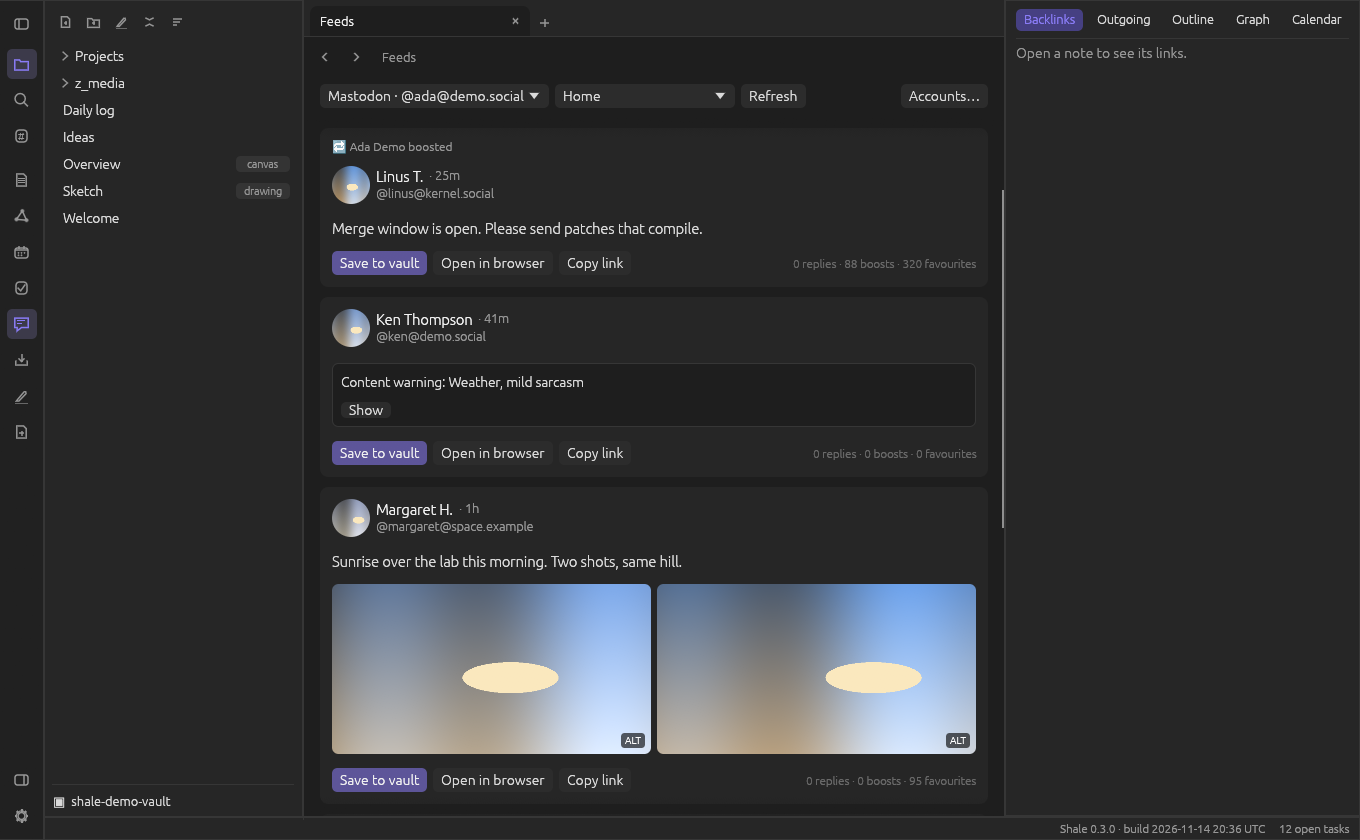
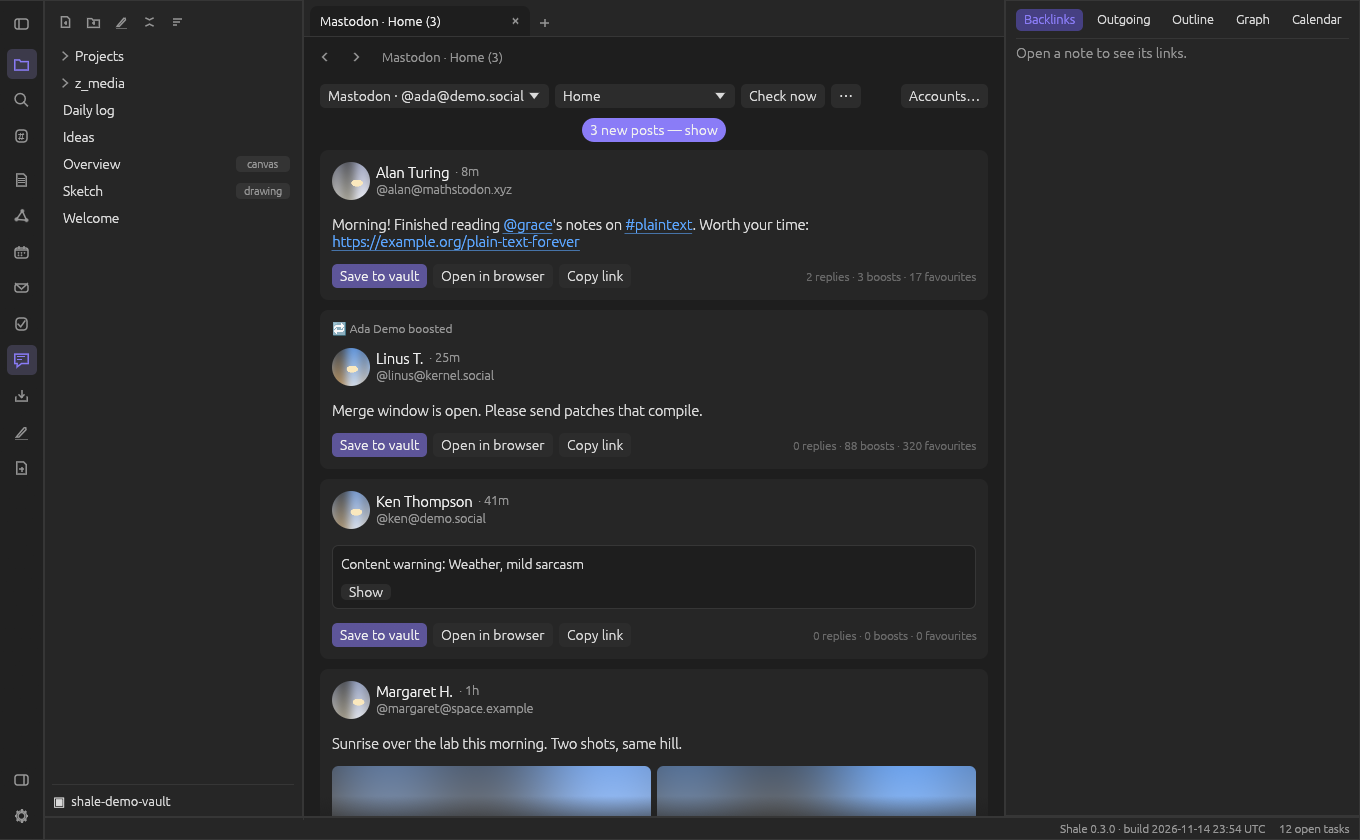
Feeds: the "N new posts — show" button moves out of the list into a fixed-height row above it (always there: Up to date · checked …, Checking…, or the check error), so it covers no post and the list never moves; spec SOC-025/027, FEATURES, CHANGELOG, screenshot

diff --git a/src/social/feed_ui.rs b/src/social/feed_ui.rs
@@ -59,6 +59,18 @@ pub fn open_web(url: &str) {
     }
 }
 
+/// The height of the row above the list that holds the button for new posts.
+const NEW_ROW_HEIGHT: f32 = 28.0;
+
+/// "just now", "2 min ago", "3 h ago".
+fn checked_ago(secs: u64) -> String {
+    match secs {
+        0..60 => "just now".into(),
+        60..3600 => format!("{} min ago", secs / 60),
+        _ => format!("{} h ago", secs / 3600),
+    }
+}
+
 /// "now", "5m", "3h", "2d", or the date.
 pub fn age_text(at: i64, now: i64) -> String {
     let s = now - at;
@@ -583,7 +595,43 @@ pub fn show(ui: &mut Ui, st: &mut SocialState, accounts: &[SocialAccountEntry], 
     ui.add_space(6.0);
     let Some(feed) = feed else { return asks };
     // ---- posts
+    // ---- the row for new posts: always there, of one height, so the list never moves when the button comes and goes
     let key = (aid.clone(), feed.id.clone());
+    let waiting = st.timelines.get(&key).map(|t| t.waiting.len()).unwrap_or(0);
+    let mut show_new = tab.keys && waiting > 0 && !ctx.egui_wants_keyboard_input() && ui.input_mut(|i| i.consume_key(egui::Modifiers::NONE, egui::Key::Period));
+    {
+        let (checking, check_error, last) = st.timelines.get(&key).map(|t| (t.checking, t.check_error.clone(), t.last_checked)).unwrap_or((false, None, None));
+        let size = Vec2::new(ui.available_width(), NEW_ROW_HEIGHT);
+        ui.allocate_ui_with_layout(size, egui::Layout::top_down(egui::Align::Center), |ui| {
+            ui.set_min_size(size);
+            ui.set_max_height(NEW_ROW_HEIGHT);
+            if waiting > 0 {
+                let label = format!("{waiting} new post{} — show", if waiting == 1 { "" } else { "s" });
+                let r = ui.add(egui::Button::new(RichText::new(label).strong().color(theme::TEXT_STRONG)).fill(theme::ACCENT).corner_radius(12).min_size(Vec2::new(0.0, 24.0)));
+                st.rects.push(("new-posts".into(), r.rect));
+                show_new |= r.on_hover_text("Put the new posts above the list (key: .). The view stays where it is.").clicked();
+            } else {
+                ui.add_space(5.0);
+                if let Some(e) = &check_error {
+                    let r = ui.add(egui::Label::new(RichText::new(format!("Could not look for new posts: {e}")).size(11.5).color(theme::LINK_MISSING)).truncate());
+                    st.rects.push(("check-error".into(), r.rect));
+                } else if checking {
+                    ui.horizontal(|ui| {
+                        ui.add(egui::Spinner::new().size(12.0));
+                        ui.label(RichText::new("Checking…").size(11.5).color(theme::MUTED));
+                    });
+                } else {
+                    let text = match last {
+                        Some(t) => format!("Up to date · checked {}", checked_ago(t.elapsed().as_secs())),
+                        None => "Up to date".to_string(),
+                    };
+                    let r = ui.label(RichText::new(text).size(11.5).color(theme::MUTED));
+                    st.rects.push(("up-to-date".into(), r.rect));
+                    ctx.request_repaint_after(std::time::Duration::from_secs(20));
+                }
+            }
+        });
+    }
     let posts = st.timelines.get_mut(&key).map(|t| std::mem::take(&mut t.posts)).unwrap_or_default();
     let (loading, loaded, error, has_more, filling) = st.timelines.get(&key).map(|t| (t.loading, t.loaded, t.error.clone(), t.cursor.is_some(), t.filling)).unwrap_or((false, false, None, false, false));
     let gaps: HashSet<String> = st.timelines.get(&key).map(|t| t.gaps.iter().map(|g| g.above.clone()).collect()).unwrap_or_default();
@@ -689,26 +737,7 @@ pub fn show(ui: &mut Ui, st: &mut SocialState, accounts: &[SocialAccountEntry], 
     }
     st.anchors.insert(tab.id, anchor);
     st.post_rects = post_rects;
-    // ---- the button for new posts, floating over the top of the list
-    let waiting = st.timelines.get(&key).map(|t| t.waiting.len()).unwrap_or(0);
-    let check_error = st.timelines.get(&key).and_then(|t| t.check_error.clone());
-    let mut show_new = tab.keys && waiting > 0 && !ctx.egui_wants_keyboard_input() && ui.input_mut(|i| i.consume_key(egui::Modifiers::NONE, egui::Key::Period));
-    if waiting > 0 || check_error.is_some() {
-        egui::Area::new(ui.scope_id().with(("social-new-posts", tab.id))).order(egui::Order::Middle).fixed_pos(egui::pos2(out.inner_rect.center().x, out.inner_rect.min.y + 8.0)).pivot(egui::Align2::CENTER_TOP).show(&ctx, |ui| {
-            ui.vertical_centered(|ui| {
-                if waiting > 0 {
-                    let label = format!("{waiting} new post{} — show", if waiting == 1 { "" } else { "s" });
-                    let r = ui.add(egui::Button::new(RichText::new(label).strong().color(theme::TEXT_STRONG)).fill(theme::ACCENT).corner_radius(14).min_size(Vec2::new(0.0, 28.0)));
-                    st.rects.push(("new-posts".into(), r.rect));
-                    show_new |= r.on_hover_text("Put the new posts above the list (key: .). The view stays where it is.").clicked();
-                }
-                if let Some(e) = &check_error {
-                    let r = ui.label(RichText::new(format!("Could not look for new posts: {e}")).size(11.5).color(theme::LINK_MISSING).background_color(theme::BG_SECONDARY));
-                    st.rects.push(("check-error".into(), r.rect));
-                }
-            });
-        });
-    }
+    st.list_rect = out.inner_rect;
     if show_new {
         st.show_waiting(&key);
         ctx.request_repaint();

diff --git a/src/social/state.rs b/src/social/state.rs
@@ -63,6 +63,8 @@ pub struct Timeline {
     pub filling: bool,
     /// the last check failed (the list stays as it is)
     pub check_error: Option<String>,
+    /// when a check (or the first page) last went well
+    pub last_checked: Option<Instant>,
     /// checks that failed in a row
     pub failures: u32,
     /// when the next check is due; None: not planned yet
@@ -155,6 +157,8 @@ pub struct SocialState {
     pub rects: Vec<(String, Rect)>,
     /// where the posts of the list shown are, by `post_key` (for tests)
     pub post_rects: Vec<(String, Rect)>,
+    /// the screen rectangle of the list's viewport (for tests)
+    pub list_rect: Rect,
     /// how often the feeds open in tabs are checked for new posts (zero: never)
     pub check_every: Duration,
     /// the posts of a pretend server (screenshots, tests); None: the real account
@@ -196,6 +200,7 @@ impl SocialState {
             messages: vec![],
             rects: vec![],
             post_rects: vec![],
+            list_rect: Rect::NOTHING,
             check_every: Duration::from_secs(300),
             source: None,
             anchors: HashMap::new(),
@@ -474,6 +479,7 @@ impl SocialState {
                                 t.posts.extend(fresh);
                             }
                             t.loaded = true;
+                            t.last_checked.get_or_insert_with(Instant::now);
                         }
                         Err(e) => t.error = Some(e),
                     }
@@ -489,6 +495,7 @@ impl SocialState {
                         Ok(fresh) => {
                             t.failures = 0;
                             t.check_error = None;
+                            t.last_checked = Some(Instant::now());
                             t.next_check = Some(Instant::now() + every);
                             t.absorb(fresh);
                         }

diff --git a/src/social/ui_tests.rs b/src/social/ui_tests.rs
@@ -342,6 +342,36 @@ fn new_posts_wait_behind_a_button_and_showing_them_keeps_the_view_still() {
     assert!((w.post_y(&anchor2) - y2).abs() < 1.0, "it stays there");
 }
 
+// spec: SOC-027
+#[test]
+fn the_button_sits_in_a_row_of_its_own_and_the_list_does_not_move_when_it_comes_and_goes() {
+    let mut w = W::new("row");
+    // at the top: the first post is the one the old button used to cover
+    let list0 = w.app.social.list_rect;
+    let (first, y0) = w.top_post();
+    assert!(w.rects_has("up-to-date") && !w.rects_has("new-posts"), "the row says it is up to date");
+    w.script.newer.lock().unwrap().push(("home".into(), fresh(&["n2", "n1"])));
+    w.click("check-now");
+    w.until_waiting(&home(), 2);
+    let button = w.rect("new-posts");
+    assert!(!w.rects_has("up-to-date"));
+    let same = |w: &W, what: &str| {
+        let l = w.app.social.list_rect;
+        assert!((l.min.y - list0.min.y).abs() < 0.5 && (l.height() - list0.height()).abs() < 0.5, "{what}: list {l:?} vs {list0:?}");
+        assert!((w.post_y(&first) - y0).abs() < 0.5, "{what}: post at {} vs {y0}", w.post_y(&first));
+    };
+    same(&w, "while the button is shown");
+    // the button is above the list and covers no post
+    assert!(button.max.y <= w.app.social.list_rect.min.y + 0.5, "{button:?} vs {:?}", w.app.social.list_rect);
+    for (k, r) in &w.app.social.post_rects {
+        assert!(!r.intersects(button), "the button covers {k}: {r:?} vs {button:?}");
+    }
+    w.click("new-posts");
+    w.frames(10);
+    assert!(!w.rects_has("new-posts"));
+    same(&w, "after the click");
+}
+
 // spec: SOC-028
 #[test]
 fn the_view_stays_still_when_the_height_of_the_new_posts_changes_later() {

diff --git a/docs/spec/social.md b/docs/spec/social.md
@@ -34,9 +34,9 @@ small pretend servers driven through real `curl`; it has not been tried against 
 | SOC-022 | A second feed tab opens with "New tab" next to each entry of the feed picker (Shift+click or middle-click on an entry does the same), and with the normal new tab (+) followed by Feeds. The Feeds ribbon button shows an existing Feeds tab (the current one if it is one), else opens one. | IS NOW | `social/feed_ui.rs`, `app.rs` (`show_view`) | `ui_tests.rs::two_feeds_open_in_two_tabs_each_with_its_own_scroll_and_title`, `ui_tests.rs::choosing_another_feed_is_a_step_in_the_tab_history` (Shift+click, middle-click), `ui_tests.rs::the_feeds_button_shows_an_existing_feeds_tab_and_a_new_empty_tab_becomes_a_second_one` |
 | SOC-023 | A Feeds tab is titled "<network> · <feed>" (the account handle instead of the network when two accounts share a network), followed by "(N)" when N new posts are waiting. | IS NOW | `app/social.rs` (`social_title`), `social/state.rs` | `ui_tests.rs::two_feeds_open_in_two_tabs_each_with_its_own_scroll_and_title`, `ui_tests.rs::new_posts_wait_behind_a_button_and_showing_them_keeps_the_view_still`, `ui_tests.rs::a_feed_in_a_background_tab_is_checked_on_time_and_its_tab_title_shows_the_count` |
 | SOC-024 | The open Feeds tabs are saved in `.shale/state.json` (`open_feeds`) and opened again on the next start (after the note tabs; an account that is gone is skipped); a state file without `open_feeds` still loads. | IS NOW | `vault_state.rs`, `app.rs` (`open_vault`) | `ui_tests.rs::open_feed_tabs_come_back_and_an_old_state_file_still_loads`, `vault_state.rs::feeds_tabs_are_part_of_the_state_and_unknown_fields_are_kept` |
-| SOC-025 | Every N minutes (setting "Look for new posts" in the accounts dialog, default 5, 0 = off) each feed open in any tab, also in a background tab, is checked in a background job: never two checks of one feed at once, never while its first page is loading; after an error the next check waits twice as long (up to 16 times the interval) and the old list stays, with the error shown small at the top. Nothing runs while the app is closed and nothing is announced. | IS NOW | `social/state.rs` (`tick`, `check`, `backoff`), `app/social.rs`, `social/accounts_ui.rs`, `config.rs` (`social_check_minutes`) | `state.rs::only_feeds_open_in_a_tab_are_checked_once_each_when_their_time_has_come`, `state.rs::never_two_checks_of_one_feed_at_once_and_none_while_the_list_loads`, `state.rs::a_failed_check_keeps_the_list_waits_twice_as_long_and_a_good_one_clears_the_error`, `ui_tests.rs::a_feed_in_a_background_tab_is_checked_on_time_and_its_tab_title_shows_the_count`, `config.rs::social_accounts_are_saved_without_secrets_that_the_keyring_holds` (the default) |
+| SOC-025 | Every N minutes (setting "Look for new posts" in the accounts dialog, default 5, 0 = off) each feed open in any tab, also in a background tab, is checked in a background job: never two checks of one feed at once, never while its first page is loading; after an error the next check waits twice as long (up to 16 times the interval) and the old list stays, with the error shown small in the row above the list. Nothing runs while the app is closed and nothing is announced. | IS NOW | `social/state.rs` (`tick`, `check`, `backoff`), `app/social.rs`, `social/accounts_ui.rs`, `config.rs` (`social_check_minutes`) | `state.rs::only_feeds_open_in_a_tab_are_checked_once_each_when_their_time_has_come`, `state.rs::never_two_checks_of_one_feed_at_once_and_none_while_the_list_loads`, `state.rs::a_failed_check_keeps_the_list_waits_twice_as_long_and_a_good_one_clears_the_error`, `ui_tests.rs::a_feed_in_a_background_tab_is_checked_on_time_and_its_tab_title_shows_the_count`, `config.rs::social_accounts_are_saved_without_secrets_that_the_keyring_holds` (the default) |
 | SOC-026 | A check asks only for posts newer than the newest known one. Mastodon: `min_id` of the newest timeline entry, page after page (the posts directly above the known ones) until a page is empty. Bluesky: the first pages, stopping at the first post already known (in the list or waiting). At most 200 posts per check; Mastodon's block is always contiguous with the list (the next check goes on from it), on Bluesky a cut-off leaves a gap that "Load more in between" fills page by page until it meets a known post. At most 1000 posts wait; then checks pause until they are shown. | IS NOW | `social/mastodon.rs` (`newer`), `social/bluesky.rs` (`newer`), `social/state.rs` (`absorb`, `fill`) | `mastodon.rs::newer_posts_are_the_blocks_directly_above_the_newest_entry_until_a_page_is_empty`, `mastodon.rs::a_boost_has_its_own_entry_id_and_that_is_the_top`, `mastodon.rs::the_request_for_newer_posts_carries_min_id_against_a_mock_server`, `bluesky.rs::newer_posts_are_the_pages_from_the_top_up_to_the_first_known_post`, `bluesky.rs::the_cap_leaves_a_gap_with_the_cursor_to_go_on`, `state.rs::a_check_that_hit_its_limit_leaves_a_gap_that_pages_fill_until_a_known_post` |
-| SOC-027 | New posts are not inserted into the list: the button "N new posts — show" floats at the top of the list; later checks add to the waiting posts (no doubles; a waiting post follows the newest data of the server). | IS NOW | `social/state.rs`, `social/feed_ui.rs` | `state.rs::new_posts_wait_without_doubles_and_go_above_the_list_newest_first`, `ui_tests.rs::new_posts_wait_behind_a_button_and_showing_them_keeps_the_view_still` |
+| SOC-027 | New posts are not inserted into the list: the button "N new posts — show" sits in a row of fixed height between the toolbar and the list (the row is always there: otherwise it says "Up to date · checked 2 min ago", "Checking…" or the small check error), so it covers no post and the list never moves or changes size when the button comes and goes; later checks add to the waiting posts (no doubles; a waiting post follows the newest data of the server). | IS NOW | `social/state.rs`, `social/feed_ui.rs` | `state.rs::new_posts_wait_without_doubles_and_go_above_the_list_newest_first`, `ui_tests.rs::new_posts_wait_behind_a_button_and_showing_them_keeps_the_view_still`, `ui_tests.rs::the_button_sits_in_a_row_of_its_own_and_the_list_does_not_move_when_it_comes_and_goes` |
 | SOC-028 | Clicking the button (or the key `.` when no text field has focus and no dialog is open) puts the waiting posts above the list and keeps the view still: the post at the top of the window stays at the same screen position, also when pictures of the new posts load later; the view moves again only when the user scrolls. | IS NOW | `social/feed_ui.rs` (`Anchor`) | `ui_tests.rs::new_posts_wait_behind_a_button_and_showing_them_keeps_the_view_still`, `ui_tests.rs::the_view_stays_still_when_the_height_of_the_new_posts_changes_later`, `ui_tests.rs::without_a_second_pass_the_view_is_put_back_in_the_next_frame`, `ui_tests.rs::the_period_key_shows_the_new_posts_unless_a_dialog_is_open` |
 | SOC-029 | "Check now" (the old Refresh button) runs the same check and only shows the button; it never replaces the list or jumps to the top. "Reload from the top" in the menu next to it loads the first page again and replaces the list. | IS NOW | `social/feed_ui.rs`, `social/state.rs` (`check`, `reload`) | `ui_tests.rs::check_now_never_jumps_and_reload_from_the_top_does_replace_the_list`, `state.rs::a_first_page_replaces_the_list_and_drops_what_waited` |
 

diff --git a/docs/FEATURES.md b/docs/FEATURES.md
@@ -338,8 +338,9 @@ key or a passphrase, never looks a key up on the network by itself, and tells yo
   start.
 - **New posts wait, they do not jump in**: every 5 minutes (change it in **Accounts…**, 0 =
   never) each feed that is open in a tab, also in the background, looks for newer posts. They
-  appear as a button "12 new posts — show" at the top of the list (or press `.`); the list does
-  not change until you click. Then the new posts go above and the post you were reading stays
+  appear as a button "12 new posts — show" in a row above the list (or press `.`); the row is
+  always there ("Up to date · checked 2 min ago" when nothing waits), so the list never moves
+  and nothing is covered, and it does not change until you click. Then the new posts go above and the post you were reading stays
   exactly where it is, so you can scroll up slowly. **Check now** looks right away;
   **⋯ → Reload from the top** replaces the list. If more than 200 posts came in on Bluesky,
   **Load more in between** fills the gap.

diff --git a/CHANGELOG.md b/CHANGELOG.md
@@ -95,7 +95,8 @@ The release page of each version on GitHub shows its section from this file.
   position and history ("New tab" next to each feed in the picker, Shift+click or middle-click),
   titled "Mastodon · Home" with the number of waiting posts, and open Feeds tabs are restored at
   the next start. Every 5 minutes (setting in **Accounts…**, 0 = off) the feeds open in tabs look
-  for newer posts and show "N new posts — show" at the top of the list instead of inserting
+  for newer posts and show "N new posts — show" in a row above the list (which says "Up to date ·
+  checked 2 min ago" otherwise, so the list never moves and no post is covered) instead of inserting
   them; clicking it (or `.`) puts them above while the post you were reading stays at the same
   place on the screen. **Refresh** is now **Check now** (it no longer jumps to the top);
   **⋯ → Reload from the top** replaces the list.
